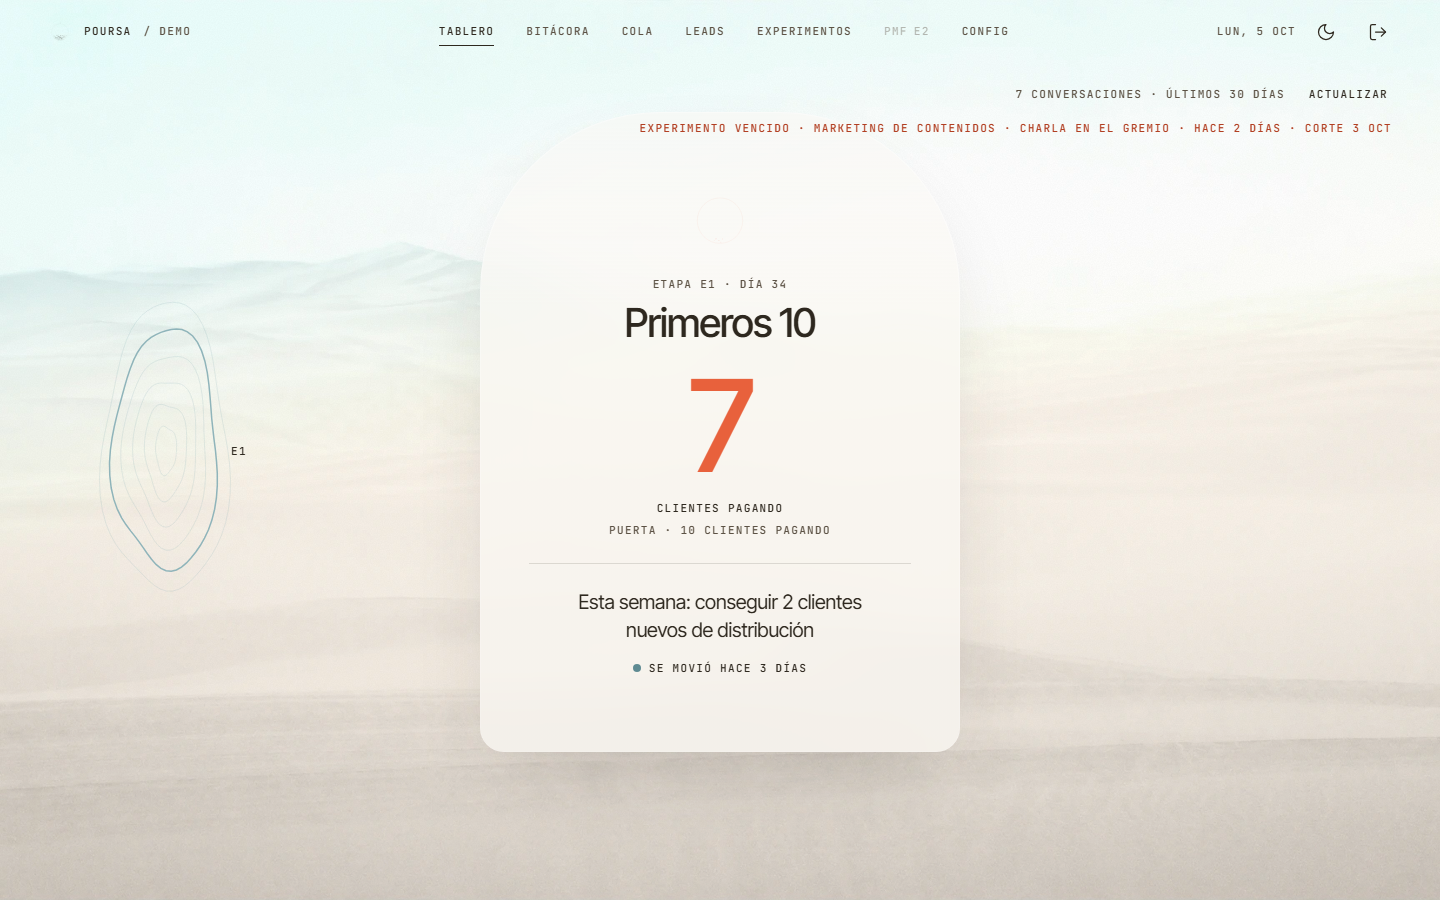
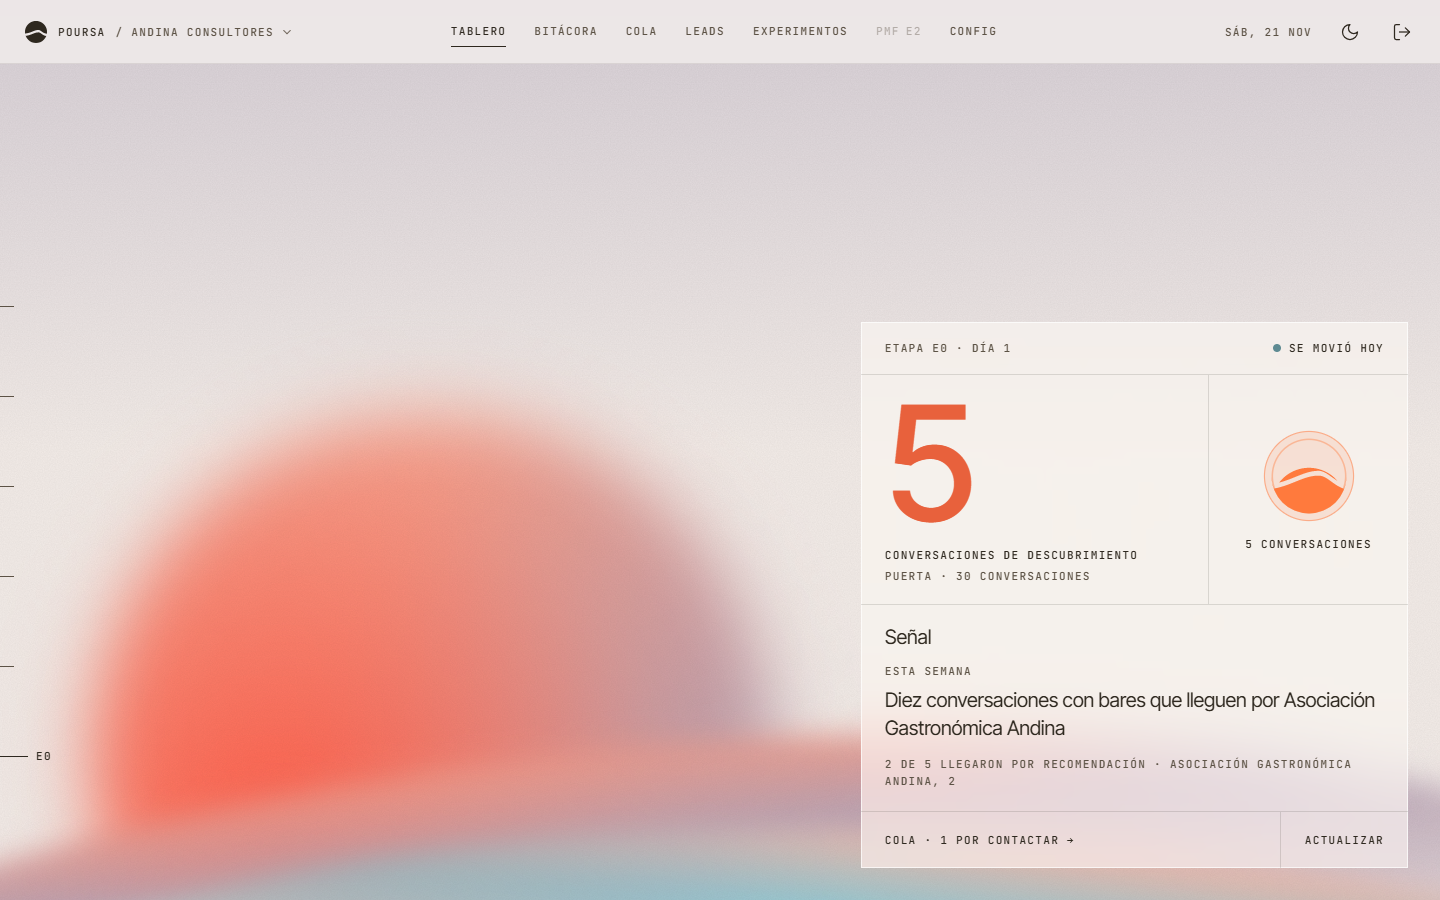
docs: presentacion al dia, con el equipo, la app instalable y capturas nuevas
- Capturas del estilo nuevo, de una empresa inventada: el Tablero, la Bitacora
  y la Cola en el celular de un socio; Bitacora, Fabrica, Experimentos,
  Configuracion y Empresas en el escritorio; Entrar, Instalar y el tema oscuro.
- El equipo y sus dos papeles, la entrada con codigo, la Cola compartida y de
  donde llegan las conversaciones.
- Seguridad de la entrada con codigo y de los permisos; 670 pruebas; el piloto
  en su propio servidor con HTTPS; la hoja de ruta segun la primera prueba.

diff --git a/README.md b/README.md
@@ -4,37 +4,40 @@
 
 **El instrumento para conseguir los primeros clientes de un producto que ya está hecho.**
 
-Cadencia, diagnóstico y disciplina de distribución para MVPs terminados que todavía
-no venden: lo que hace una aceleradora, convertido en un sistema que se usa todos los días.
+Cadencia, diagnóstico y disciplina de distribución para empresas que venden a otras
+empresas: lo que hace una aceleradora, convertido en un sistema que el equipo usa todos los
+días, desde el celular.
 
 [![Java](https://img.shields.io/badge/Java-21-orange?logo=openjdk)](https://openjdk.org/)
 [![Spring Boot](https://img.shields.io/badge/Spring%20Boot-4.1-6DB33F?logo=spring)](https://spring.io/projects/spring-boot)
 [![MySQL](https://img.shields.io/badge/MySQL-8-4479A1?logo=mysql)](https://www.mysql.com/)
 [![Thymeleaf + HTMX](https://img.shields.io/badge/Thymeleaf%20%2B%20HTMX-2.0-005F0F)](https://htmx.org/)
-[![Pruebas](https://img.shields.io/badge/pruebas-500-9A8B76)](#calidad)
+[![Pruebas](https://img.shields.io/badge/pruebas-670-9A8B76)](#calidad)
 [![Seguridad](https://img.shields.io/badge/seguridad-OWASP%20ASVS%205.0%20N2-5B8DEF)](#seguridad)
 [![Licencia](https://img.shields.io/badge/licencia-propietaria-C4985A)](#licencia)
 
 <br>
 
 <img src="docs/capturas/01-tablero-escritorio-claro.png" width="900"
-     alt="Tablero de POURSA: etapa E1, Primeros 10, con 7 clientes pagando y la meta de la semana">
+     alt="Tablero de POURSA: etapa E0, 5 conversaciones de descubrimiento de 30, la meta de la semana y cuántas llegaron por recomendación">
 
 </div>
 
-> **In English.** POURSA is a traction system for founders whose product is finished but
-> has no paying customers yet. It turns what accelerators do — weekly cadence, stage
-> gates, channel experiments, lead qualification and product-market-fit measurement —
-> into a daily tool. It automates everything *up to* the conversation with a customer and
-> nothing beyond it: messages are copied, never sent automatically, and the system never
-> promises results. Built with Java 21 and Spring Boot 4, audited against OWASP ASVS 5.0
-> level 2. Its first project is PFM, a personal and business finance app for Colombia.
+> **In English.** POURSA is a traction system for B2B companies whose product is finished
+> but that still need their first paying customers. It turns what accelerators do — weekly
+> cadence, stage gates, channel experiments, lead qualification and product-market-fit
+> measurement — into a daily tool for the whole team. Each partner joins with a one-time
+> code from their own phone and the app installs on the home screen, no app store needed.
+> It automates everything *up to* the conversation with a customer and nothing beyond it:
+> messages are copied, never sent automatically, and the system never promises results.
+> Built with Java 21 and Spring Boot 4, audited against OWASP ASVS 5.0 level 2, and running
+> as a pilot on its own server with HTTPS.
 
 ---
 
 ## El problema
 
-Construir un MVP hoy es más fácil que nunca. Venderlo, no. La mayoría de productos que
+Construir un producto hoy es más fácil que nunca. Venderlo, no. La mayoría de productos que
 mueren no mueren por el código: **el 43% muere por falta de encaje con el mercado**, y la
 mediana para llegar a US$1M de ingreso anual son 33 meses de distribución constante.
 
@@ -42,9 +45,9 @@ El síntoma es siempre el mismo: producto terminado, auditado, desplegable… y 
 que pagan. Las aceleradoras resuelven eso con cadencia y criterio, pero cuestan, son
 pocas y atienden a pocos. POURSA lleva ese método a un sistema.
 
-Nace de un caso real: **PFM**, una aplicación de finanzas personales y de empresa con el
-código terminado y ningún cliente pagando. POURSA es la herramienta para cambiar eso, y
-PFM es su primer proyecto.
+Nació de un caso real, **PFM**, una aplicación de finanzas con el código terminado y ningún
+cliente pagando. Hoy es un producto aparte: lo usan empresas que venden a otras empresas,
+cada una con su equipo, y la primera prueba con una de ellas está en curso.
 
 ---
 
@@ -52,7 +55,7 @@ PFM es su primer proyecto.
 
 ### Una escalera, una métrica por etapa
 
-Cada proyecto está en una etapa. Cada etapa tiene **una sola métrica** y **una puerta**
+Cada empresa está en una etapa. Cada etapa tiene **una sola métrica** y **una puerta**
 que se comprueba con datos, no con opiniones.
 
 | Etapa | Nombre | La métrica | La puerta |
@@ -70,19 +73,53 @@ Solo se ve la etapa actual: el mapa completo paraliza.
 
 | Motor | Qué hace |
 |---|---|
-| **Diagnóstico** | Dice en qué etapa está el proyecto, medido y no declarado. En E2, con la encuesta de Sean Ellis. |
+| **Diagnóstico** | Dice en qué etapa está la empresa, medido y no declarado. Desde la E2, con la encuesta de Sean Ellis. |
 | **Objetivo** | La escalera: la métrica de la etapa, el semáforo, la meta de la semana y la graduación con evidencia. |
 | **Canal** | El precio decide qué canales se pueden pagar. Los que no, se apagan con su porqué. |
 | **Fábrica de leads** | Importa empresas del registro mercantil, las califica con reglas explicables y prepara el contacto. |
 | **Aprendizaje** | Experimentos de canal con contrato: tope, fecha de corte, umbral y criterio de abandono, declarados antes de empezar. |
 
+### Un equipo, dos papeles
+
+| | Qué ve | Cómo entra |
+|---|---|---|
+| **Socio** | Tablero, Bitácora y Cola: lo que se usa todos los días | Con un código de un solo uso, desde su celular |
+| **Operador** | Además, la Fábrica, los Experimentos, la Configuración, la PMF y las Empresas | Con usuario y clave |
+
+Cada conversación queda con quién la tuvo, cómo llegó la empresa (la buscaron, alguien la
+recomendó o ella escribió) y, si fue por recomendación, quién la recomendó. Así el Tablero
+puede decir de dónde vienen las conversaciones, y no solo cuántas son.
+
 ---
 
 ## Las pantallas
 
+### El equipo, desde el celular
+
 <table>
 <tr>
-<td width="62%"><img src="docs/capturas/03-leads-escritorio-claro.png" alt="Fábrica de leads con empresas que califican y descartadas"></td>
+<td width="33%"><img src="docs/capturas/02-tablero-movil-socio.png" alt="Tablero en el celular de un socio"></td>
+<td width="33%"><img src="docs/capturas/03-bitacora-movil-socio.png" alt="Bitácora en el celular, con quién anotó cada conversación"></td>
+<td width="33%"><img src="docs/capturas/04-cola-movil-socio.png" alt="Cola de contacto en el celular, con una empresa sin tomar"></td>
+</tr>
+<tr>
+<td><sub><b>Tablero</b> · la métrica de la etapa, la meta de la semana y cuántas conversaciones llegaron por recomendación. Se pone al día solo cuando otro socio anota.</sub></td>
+<td><sub><b>Bitácora</b> · cada conversación en menos de un minuto, con quién la anotó. Es lo que alimenta todo lo demás.</sub></td>
+<td><sub><b>Cola</b> · compartida: copiar o descartar toma la empresa, y dos socios nunca le escriben a la misma. <b>Nada se envía solo.</b></sub></td>
+</tr>
+</table>
+
+### El operador, en el escritorio
+
+<table>
+<tr>
+<td width="62%"><img src="docs/capturas/05-bitacora-escritorio.png" alt="Bitácora en el escritorio con el formulario abierto"></td>
+<td><b>Bitácora.</b> La lista con filtros y búsqueda, y el formulario al lado. El operador
+puede anotar por un socio («Anotó Ruben · por Laura») y cada conversación cuenta para quien
+la tuvo. La empresa se autocompleta; si es nueva, se pregunta cómo llegó.</td>
+</tr>
+<tr>
+<td><img src="docs/capturas/06-fabrica-escritorio.png" alt="Fábrica de leads con empresas que califican y descartadas"></td>
 <td><b>Fábrica de leads.</b> Importa el CSV del registro mercantil (RUES) con vista previa, y
 califica cada empresa con reglas deterministas: actividad económica, ciudad, tamaño,
 antigüedad y canal. <b>Descartar es la función principal</b>: las descartadas se muestran
@@ -90,48 +127,50 @@ con su motivo y con el mismo peso visual que las que califican. Las personas nat
 entran nunca.</td>
 </tr>
 <tr>
-<td><img src="docs/capturas/04-cola-escritorio-claro.png" alt="Cola de contacto con el mensaje propuesto y el botón Aprobar y copiar"></td>
-<td><b>Cola de contacto.</b> Una empresa a la vez, con por qué encaja, el canal institucional
-y un mensaje redactado a partir de una plantilla. <b>Nada se envía solo</b>: el botón copia
-el mensaje, y la persona lo pega y lo envía. Cada versión de plantilla lleva la cuenta de
-cuántas conversaciones trajo.</td>
-</tr>
-<tr>
-<td><img src="docs/capturas/06-experimentos-escritorio-claro.png" alt="Experimentos con uno vencido que solo permite declarar ganador o abandonar"></td>
+<td><img src="docs/capturas/07-experimentos-escritorio.png" alt="Un experimento activo con su fecha de corte, su umbral y su criterio de abandono"></td>
 <td><b>Experimentos.</b> Hasta tres a la vez, cada uno con su contrato. Cuando llega la fecha
 de corte, el experimento solo se puede cerrar: ganador o abandonado, y lo aprendido es
 obligatorio. El avance cuenta conversaciones reales, no actividad.</td>
 </tr>
 <tr>
-<td><img src="docs/capturas/05-config-escritorio-claro.png" alt="Configuración con los planes en pesos, el ingreso promedio por cuenta y los canales viables"></td>
+<td><img src="docs/capturas/08-config-escritorio.png" alt="Configuración con los planes en pesos, el ingreso promedio por cuenta y los canales viables"></td>
 <td><b>Configuración.</b> Los planes del producto en pesos o dólares, con su mezcla. De ahí
 salen el ingreso promedio por cuenta, cuántas cuentas hacen falta para US$1M al año y el
 presupuesto de adquisición que el precio permite. Con eso se decide qué canales se pueden
-probar.</td>
+probar, y el cliente ideal que se escribe aquí es la misma regla que califica en la Fábrica.</td>
 </tr>
 <tr>
-<td><img src="docs/capturas/07-pmf-escritorio-claro.png" alt="PMF con 44% de muy decepcionados y el sello de puerta cumplida"></td>
-<td><b>PMF.</b> La encuesta de Sean Ellis, para cualquier empresa: por plan, por rondas y con
-las tres preguntas abiertas del método. Con menos de 40 respuestas la cifra se atenúa y dice
-cuántas faltan; nunca se declara un encaje con una muestra que no alcanza.</td>
+<td><img src="docs/capturas/09-empresas-escritorio.png" alt="Empresas: los socios, sus celulares, las invitaciones y la medida del mes"></td>
+<td><b>Empresas.</b> Crear una empresa, invitar a cada socio con un código que se muestra una
+sola vez, ver sus celulares y revocar uno sin tocar a los demás. Arriba, la medida del mes:
+cuántas conversaciones fueron de los socios y cuántas del operador. Borrar una empresa se
+lleva todo lo suyo, y pide escribir su nombre.</td>
 </tr>
 </table>
+
+### Entrar e instalar
 
 <table>
 <tr>
-<td width="33%"><img src="docs/capturas/02-bitacora-movil-claro.png" alt="Bitácora en el celular"></td>
-<td width="33%"><img src="docs/capturas/08-encuesta-movil-es.png" alt="Encuesta pública en español"></td>
-<td width="33%"><img src="docs/capturas/08b-encuesta-movil-en.png" alt="Encuesta pública en inglés"></td>
+<td width="33%"><img src="docs/capturas/10-entrada-movil.png" alt="Entrada con código"></td>
+<td width="33%"><img src="docs/capturas/11-instalar-movil.png" alt="Instalar en Android y en iPhone"></td>
+<td width="33%"><img src="docs/capturas/13-tablero-movil-oscuro.png" alt="Tablero en el celular, en tema oscuro"></td>
 </tr>
 <tr>
-<td><sub><b>Bitácora</b> · cada conversación con un cliente en menos de un minuto, desde el celular. Es lo que alimenta todo lo demás.</sub></td>
-<td colspan="2"><sub><b>La encuesta que reciben los clientes de la empresa</b> · con su marca, en español o inglés, sin cuenta y anónima por diseño: no hay dónde escribir un nombre, un correo ni un teléfono.</sub></td>
+<td><sub><b>Entrar</b> · el código lo manda quien administra la empresa, y se escribe una sola vez por celular.</sub></td>
+<td><sub><b>Instalar</b> · queda en la pantalla de inicio con su ícono y abre sin la barra del navegador. Sin tienda de aplicaciones.</sub></td>
+<td><sub><b>Tema oscuro</b> · también en la barra de arriba del celular, que toma el color de la pantalla.</sub></td>
 </tr>
 </table>
 
-<img src="docs/capturas/09-tablero-escritorio-oscuro.png" alt="Tablero en tema oscuro">
+<img src="docs/capturas/12-tablero-escritorio-oscuro.png" alt="Tablero en tema oscuro, en el escritorio">
 
-<sub><b>Tema oscuro</b> · las dos apariencias se diseñaron a la vez, con los mismos contrastes mínimos de accesibilidad (WCAG AA).</sub>
+<sub><b>Tema oscuro</b> · las dos apariencias se diseñaron a la vez, con los mismos contrastes mínimos de accesibilidad (WCAG AA). El estilo es propio: lo que el equipo todavía no ha tocado está desenfocado al fondo, y lo hecho va nítido, sobre cristal.</sub>
+
+> La **PMF** (la encuesta de Sean Ellis, por rondas y por plan, con un enlace público que la
+> empresa manda a sus clientes, en español o inglés y anónima por diseño) se activa en la
+> E2. La empresa de las capturas está en E0, así que esa pantalla no aparece aquí.
+> Todas las empresas y personas de las capturas son inventadas.
 
 ---
 
@@ -148,7 +187,7 @@ Lo que POURSA **no** hace, a propósito:
   de 2012 de Colombia): correo institucional y teléfono corporativo.
 - **No lee la base de datos de nadie.** Recibe las métricas que el negocio escribe o
   exporta. Un producto que exige acceso a la base del cliente no se puede vender.
-- **Puede decir "detén esto".** Si la métrica lleva seis semanas quieta, lo dice sin
+- **Puede decir "detén esto".** Si la métrica lleva semanas quieta, lo dice sin
   suavizarlo.
 
 ---
@@ -161,9 +200,10 @@ Lo que POURSA **no** hace, a propósito:
 | **Framework** | Spring Boot 4.1 (Spring MVC, Spring Security 7, Spring Data JPA) |
 | **Base de datos** | MySQL 8, con migraciones versionadas e idempotentes |
 | **Interfaz** | Thymeleaf y HTMX 2, sin frameworks de JavaScript; tipografía y marca propias, generadas por código |
+| **Celular** | Aplicación web instalable (manifiesto e íconos propios), en Android y iPhone |
 | **Trabajos en segundo plano** | JobRunr |
 | **IA** | Claude (Anthropic), opcional y desconectada por defecto, con gasto acotado por día y por lote |
-| **Despliegue** | Docker: imagen mínima con JRE, usuario sin privilegios, MySQL con TLS obligatorio |
+| **Despliegue** | Docker en un servidor propio: imagen mínima con JRE, usuario sin privilegios, HTTPS automático con Caddy, MySQL sin publicar y respaldo nocturno probado restaurándolo |
 
 La arquitectura es un **monolito modular organizado por funcionalidad**: cada motor es un
 módulo con su lógica, sus vistas y sus datos, y los módulos se hablan por interfaces
@@ -176,14 +216,21 @@ pequeñas, sin dependencias circulares.
 Auditada contra **OWASP ASVS 5.0 nivel 2** y el **OWASP Top 10:2025**, con un control por
 prueba automatizada siempre que se puede.
 
-- **Acceso:** sesión con cookie `HttpOnly`, `Secure` y `SameSite=Strict`, que rota al entrar
-  y caduca. Bloqueo tras intentos fallidos, por usuario y dirección. Claves con bcrypt.
+- **Entrada con código:** doce caracteres (60 bits de azar), de un solo uso y con fecha de
+  vencimiento; en la base solo queda su huella. Cada celular recibe una llave de 256 bits
+  en una cookie `HttpOnly` y `Secure`, revocable desde Empresas sin tocar a los demás. Los
+  intentos fallidos se limitan por dirección y en total.
+- **Operador:** sesión con cookie `HttpOnly`, `Secure` y `SameSite=Strict`, que rota al
+  entrar y caduca. Bloqueo tras intentos fallidos, por usuario y dirección. Claves con bcrypt.
+- **Permisos:** cada ruta pide su papel, y el servicio lo vuelve a comprobar. Cada consulta
+  se filtra por la empresa de quien entró; el identificador de otra empresa responde 404,
+  sin confirmar que exista.
 - **Cabeceras:** CSP estricta sin scripts ni estilos en línea, `X-Frame-Options`,
   `nosniff`, HSTS, `Permissions-Policy` y `Cross-Origin-Opener-Policy`.
-- **Datos:** cada consulta se filtra por proyecto. SQL siempre con parámetros. Exportación
-  a CSV protegida contra inyección de fórmulas.
-- **La única ruta pública** (la encuesta) usa un enlace de 256 bits revocable, CSRF, un
-  límite de envíos por dirección y una respuesta 404 que no confirma si el enlace existió.
+- **Datos:** SQL siempre con parámetros. Exportación a CSV protegida contra inyección de
+  fórmulas.
+- **La encuesta pública** usa un enlace de 256 bits revocable, CSRF, un límite de envíos
+  por dirección y una respuesta 404 que no confirma si el enlace existió.
 - **Dependencias:** escaneo con OWASP Dependency-Check contra la base del NVD; las
   versiones vulnerables se actualizan y cada excepción queda escrita, con fecha de
   vencimiento.
@@ -196,33 +243,37 @@ prueba automatizada siempre que se puede.
 
 ## Calidad
 
-**500 pruebas automatizadas**, entre unitarias, de controladores y de integración contra
-una base MySQL real, con un recorrido completo que cruza todos los módulos: de la
-configuración del precio a la Cola, la Bitácora, el experimento y el Tablero.
+**670 pruebas automatizadas**, entre unitarias, de controladores y de integración contra
+una base MySQL real: un recorrido completo que cruza todos los módulos, dos socios que
+toman la misma empresa de la Cola al mismo tiempo, y lo que cada papel puede y no puede
+abrir.
 
-Cada pantalla se implementó a partir de un mockup y se revisó en escritorio (incluidas
-pantallas con escalado de Windows) y en el celular, en los dos temas.
+Cada pantalla se implementó a partir de una maqueta y se revisó en escritorio (incluidas
+pantallas con escalado de Windows) y en el celular, en los dos temas. Antes de entregarlo,
+un mes de uso de una empresa de prueba se simuló de punta a punta por la propia aplicación,
+como lo haría una persona.
 
 ---
 
 ## Estado
 
-**Construido de la F0 a la F9**: las siete pantallas, la integración con IA (desconectada
-por defecto), las auditorías de seguridad y de uso, y el despliegue preparado y probado con
-Docker. Hoy se usa en local con su primer proyecto, PFM.
+**Construido y en piloto.** Las diez pantallas, el equipo con códigos y permisos, la Cola
+compartida, la aplicación instalable y la integración con IA (desconectada por defecto).
+Corre en su propio servidor con HTTPS, y la primera prueba con una empresa B2B, restringida
+y sin costo, está empezando.
 
 ---
 
 ## Hoja de ruta
 
-Lo siguiente está **planificado y depende de la evidencia** que deje el primer proyecto:
-POURSA crece solo cuando el paso anterior demostró que hace falta.
+Lo siguiente **depende de la evidencia** que deje la primera prueba: POURSA crece solo cuando
+el paso anterior demostró que hace falta. Mientras el equipo que lo prueba no registre
+conversaciones nuevas, no se escribe código nuevo.
 
-| Fase | Qué trae |
+| Qué | Qué trae |
 |---|---|
-| **Publicación** | La instancia en un servidor con HTTPS, para que la encuesta de PMF llegue a clientes reales. |
-| **Multiproyecto e internacional** | Importador de empresas de cualquier país, perfil legal por proyecto (Colombia o Unión Europea), otros modelos de ingreso y la interfaz en inglés. |
-| **Cuentas por empresa** | Varias empresas en una sola instalación, con usuarios, permisos y datos aislados entre sí. |
+| **La prueba** | Cuatro semanas midiendo conversaciones nuevas, y los ajustes que pida el uso real. |
+| **Internacional** | Importador de empresas de cualquier país, perfil legal por empresa (Colombia o Unión Europea), otros modelos de ingreso y la interfaz en inglés. |
 | **Producto** | Diagnóstico gratuito y ejecución de pago, con un período de prueba. |
 
 ---
